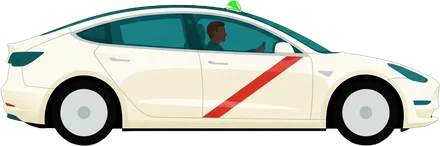
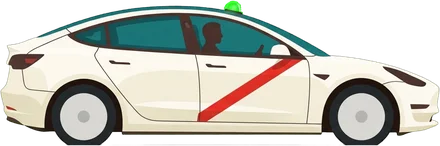
Tesla: la otra ilustración de Iván, volteada para que mire a la derecha
Claude-Session: https://claude.ai/code/session_01V2iRQ1otXhkcHck3527rkC

diff --git a/imagenes/LEEME.md b/imagenes/LEEME.md
@@ -21,7 +21,8 @@ la tapa el texto.
   repitiendo sus casas; el Metrópolis y Cibeles, en el centro.
 - `coche-turismo.webp`, `coche-tesla.webp`, `coche-mercedes.webp`: los coches de cada gama, de
   lado y mirando a la derecha (440 px de ancho), recortados del fondo verde
-  de las imágenes de Iván (la luz verde del techo se respeta a mano). Los
+  de las imágenes de Iván (la luz verde del techo se respeta a mano; el
+  Tesla, volteado: su imagen miraba a la izquierda). Los
   usan la cabecera, la miniatura de los km y la hoja de elegir coche
   (`config.vehiculos.modelos.<id>.imagen`).
 - `personaje.webp`: tu retrato (256 × 256), el protagonista; lo usa
